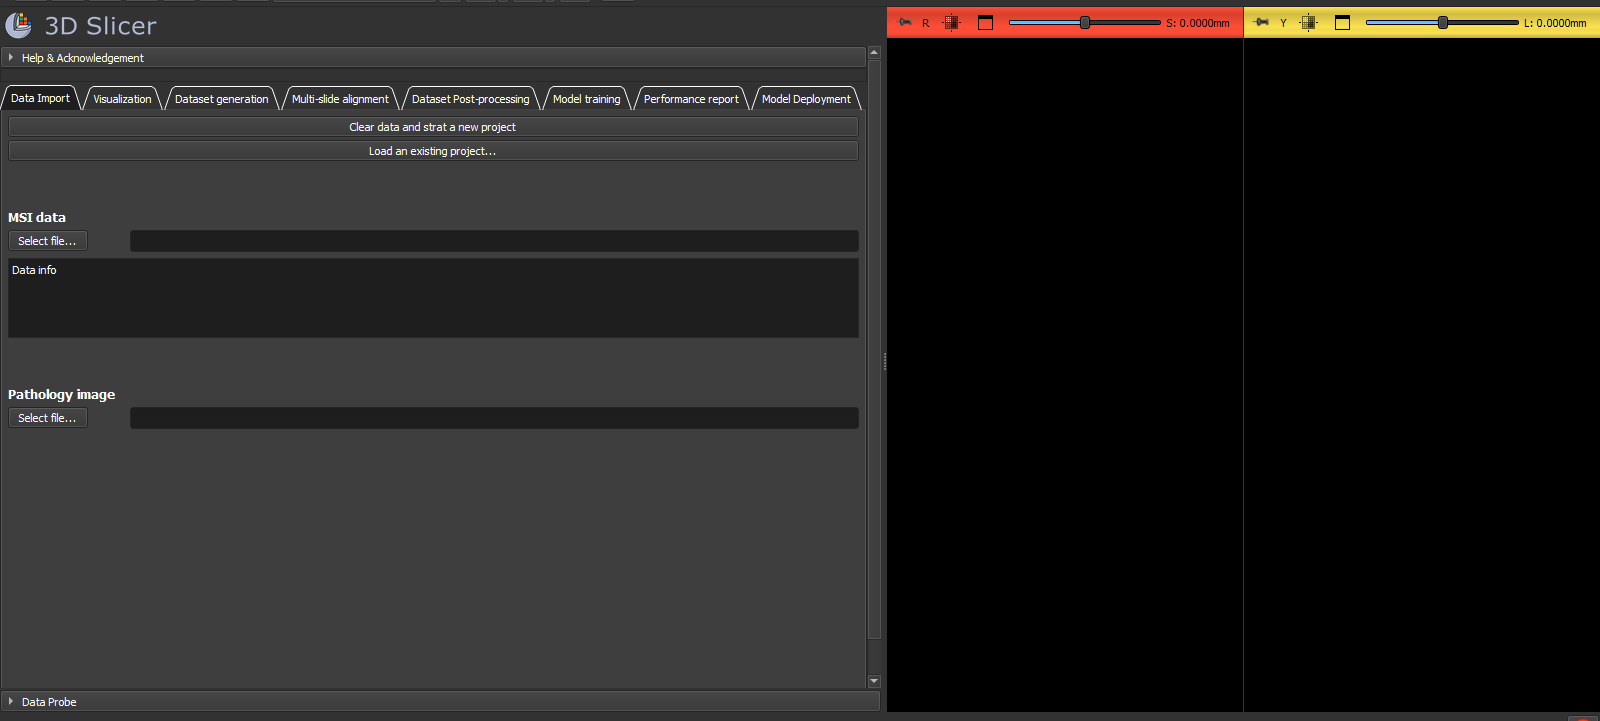
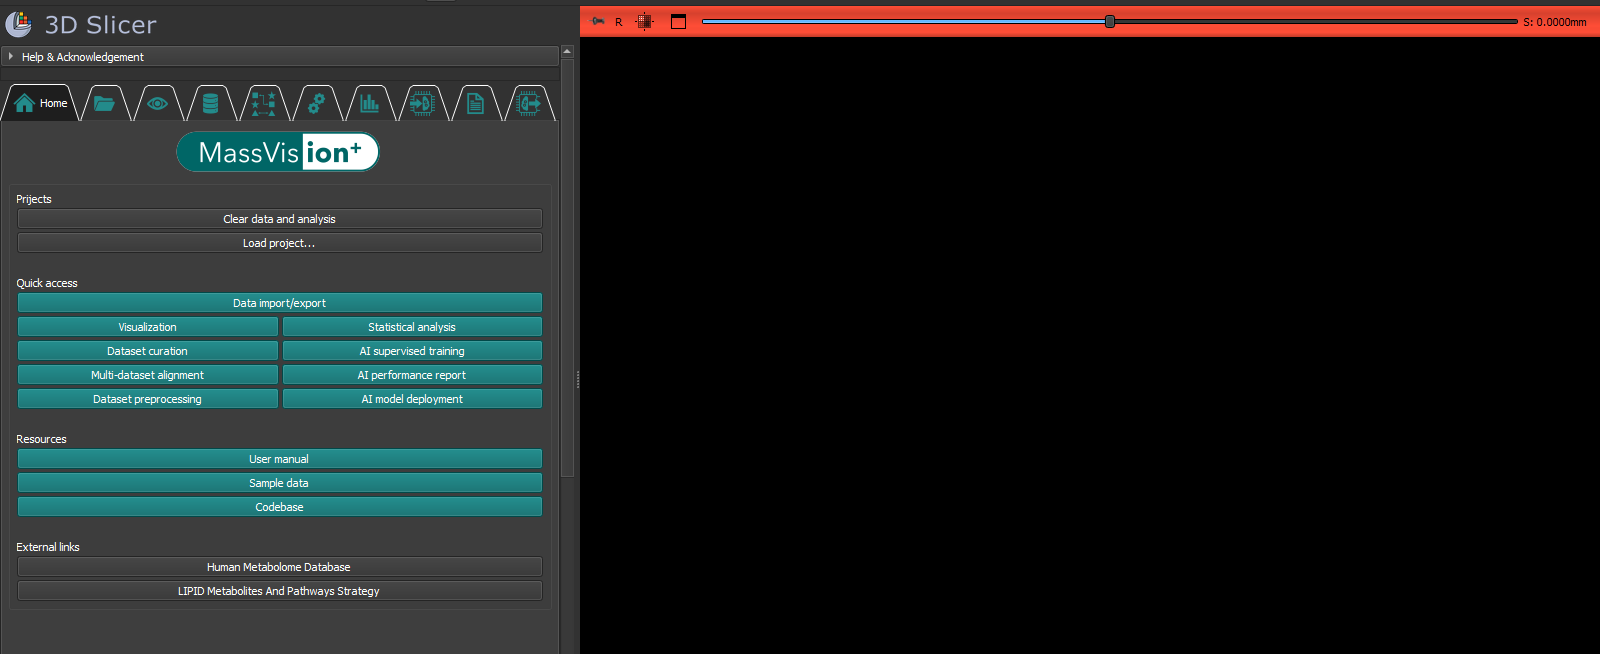
UPD manual

diff --git a/docs/source/Home Tab.rst b/docs/source/Home Tab.rst
@@ -1,0 +1,66 @@
+Home Tab
+========
+
+.. image:: https://raw.githubusercontent.com/jamzad/SlicerMassVision/main/HomeTab.png
+   :width: 400
+   :align: center
+
+Projects
+--------
+To clear any open data and analysis in MassVision, click on **Clear data and analysis** button in Project section. We recommend that users clear MassVision before uploading any new MSI data, or starting a new independent task. 
+
+If you have a saved MassVision project that you would like to resume working on, click **Load project** button.
+
+.. important::
+   After loading a saved MassVision project, you must reload the corresponding MSI data to resume editing from where you left off.
+
+MassVision projects contain all processed files, such as annotated scenes, labeled segments, and visualizations. However, the original MSI data used in the analysis is excluded to prevent project size inflation and avoid duplicating the original data.
+
+Quick Access
+------------
+MassVision is organized into multiple tabs, each containing specific functionalities to help you efficiently manage and navigate the system. The **Quick access** section provides convenient access to all tabs within MassVision. The available modules include:
+
+* Data Import/Export – Importing and exporting MSI and pathology data
+
+* Visualization – Interactive visualization tools for data exploration 
+
+* Dataset Curation – Co-localization, annotation, and labeled dataset generation 
+
+* Multi-Dataset Alignment – Ion alignment and peak matching between datasets 
+
+* Dataset Preprocessing – Normalization, filtering and aggregation
+
+* Statistical Analysis – Data distribution exploration, box plot, Volcano plot
+
+* AI Supervised Training – Feature ranking and selectin, model training and evaluation
+
+* AI Performance Report – Modules for evaluating and reporting model performance.
+
+* AI Model Deployment – Tools for deploying trained models into whole-slide MSI data.
+
+By selecting a button, you will be directed to the corresponding tab.
+
+
+Resources
+---------
+This section provides quick access to essential online support materials that assist users in working effectively with MassVision. This includes:
+
+* User Manual – A comprehensive online guide detailing the features, functionality, and usage of the system.
+
+* Sample Data – Online example datasets for testing, demonstration, or familiarization with key workflows.
+
+* Codebase – Access to the online code repository, enabling users to explore or contribute to the MassVision platform.
+
+By selecting any of these options, users will be directed to the corresponding online resource.
+
+
+External Links
+--------------
+
+The **External Links** section provides direct access to reputable online resources that support and complement the use of MassVision in metabolomics and lipidomics research. These include:
+
+* Human Metabolome Database (HMDB) – A comprehensive online resource for information on human metabolites, including detailed chemical, clinical, and biochemical data.
+
+* LIPID Metabolites and Pathways Strategy (LIPID MAPS) – A curated platform offering data and tools related to lipid metabolism, structures, pathways, and classification.
+
+Clicking on any of these links will open the respective external website in your default web browser.

diff --git a/docs/source/Getting Started.rst b/docs/source/Getting Started.rst
@@ -1,15 +1,17 @@
 Getting Started
-=====
+===============
 
-MassVision is hosted in 3D Slicer image computation platform. To learn more about the platform and its applications, please refer to the official `3D Slicer Documentation <https://slicer.readthedocs.io/en/latest/>`_.
-Please ensure that you installed the latest stable version of 3D Slicer on your system. The detailed instruction for installation and system requirements can be found on the official `3D Slicer Installation Guide <https://slicer.readthedocs.io/en/latest/user_guide/getting_started.html#installing-3d-slicer>`_.
+Installing 3D Slicer
+--------------------
+MassVision is hosted in 3D Slicer image computation platform. Please ensure that you installed the latest stable version of 3D Slicer on your system. The detailed instruction for installation and system requirements can be found on the official `3D Slicer Installation Guide <https://slicer.readthedocs.io/en/latest/user_guide/getting_started.html#installing-3d-slicer>`_.To learn more about the platform and its applications, please refer to the official `3D Slicer Documentation <https://slicer.readthedocs.io/en/latest/>`_.
+
 
 .. image:: https://raw.githubusercontent.com/jamzad/SlicerMassVision/main/docs/source/Images/SlicerLogo.png
       :width: 150
       :align: center
 
 Installing MassVision
--------
+---------------------
 #. Open 3D Slicer. 
 #. Select "Extensions Manager" from the "View" menu at the top of the screen.
 
@@ -25,7 +27,7 @@ Installing MassVision
 #. The 3D Slicer should be restarted to complete the installation.
 
 Opening MassVision
--------
+------------------
 #. Open 3D Slicer
 #. Go to the 'Modules' section of the toolbar (top left) and click on the magnifying glass |ModulesIcon|.
 #. Search for "MassVision" and switch to the module.  
@@ -41,13 +43,14 @@ Opening MassVision
 #. Once the module is open, you have access to all tabs for performing your analysis: 
 
     .. image:: https://raw.githubusercontent.com/jamzad/SlicerMassVision/main/docs/source/Images/MassVisionHome.png
-        :width: 600
+        :width: 400
+        :align: center
 
 Test Data
--------
+---------
  
 MassVision provides users with test data for exploring and evaluating its functionalities. The data can be downloaded from `here <https://github.com/jamzad/SlicerMassVision/releases/tag/test-data>`_
 
-The test data includes a sample **MSI data** in a structured CSV format, along with the corresponding **histopathology image** in TIFF format. The data is collected using DESI modality from a colorectal tissue slide as part of the following study:
+The test data includes a sample **MSI data** in both structured CSV and hierarchical HDF5 format, along with the corresponding **histopathology image** in TIFF format. The data is collected using DESI modality from a colorectal tissue slide as part of the following study:
 
 Kaufmann M, Iaboni N, Jamzad A, Hurlbut D, Ren KYM, Rudan JF, Mousavi P, Fichtinger G, Varma S, Caycedo-Marulanda A, et al. Metabolically Active Zones Involving Fatty Acid Elongation Delineated by DESI-MSI Correlate with Pathological and Prognostic Features of Colorectal Cancer. Metabolites. 2023; 13(4):508. https://doi.org/10.3390/metabo13040508

diff --git a/docs/source/About MassVision.rst b/docs/source/About MassVision.rst
@@ -1,10 +1,16 @@
 About MassVision
-=====
+================
 
-**MassVision** is a module developed in `3D Slicer <https://www.slicer.org>`_ platform for end-to-end AI-driven analysis of Mass Spectrometry Imaging (MSI) data. The functionalities include data exploration via various targeted, untargeted, and local-contrast visualization, co-localization with reference modality  like histopathology annotations, dataset curation with spatial- and spectral-guidance, multi-slide dataset merge via feature alignment, spatial and spectral filtering, AI model training and validation, and whole-slide AI model deployment.
+.. image:: https://raw.githubusercontent.com/jamzad/SlicerMassVision/main/UI_nameM.png
+   :width: 400
+   :align: center
+
+**MassVision** is a module developed in `3D Slicer <https://www.slicer.org>`_ platform for end-to-end AI-driven analysis of Mass Spectrometry Imaging (MSI) data. 
+
+The functionalities include data exploration via various targeted, untargeted, and local-contrast visualization, co-localization with reference modality like histopathology annotations, dataset curation with spatial- and spectral-guidance, multi-slide dataset merge via feature alignment, spatial and spectral filtering, statistical analysis, AI model training and validation, and whole-slide MSI model deployment.
 
 How to Cite
--------
+-----------
 Thank you for choosing MassVision for your study! Please cite the following MassVision paper in your publications:
 
 Jamzad, A.; Warren, J.; Syeda, A.; Kaufmann, M.; Iaboni, N.; Nicol, C.; Rudan, J.; Ren, K.; Hurlbut, D.; Varma, S.; Fichtinger, G.; Mousavi, P. MassVision: An Open-Source End-to-End Platform for AI-Driven Mass Spectrometry Image Analysis. bioRxiv 2025. `https://doi.org/10.1101/2025.01.29.635489 <https://doi.org/10.1101/2025.01.29.635489>`_.

diff --git a/docs/source/index.rst b/docs/source/index.rst
@@ -25,11 +25,16 @@ Contents
    
    About MassVision
    Getting Started
+   Home Tab
    Data Import
    Visualization
    Dataset Curation
    Multi-slide Alignment
    Dataset Preprocessing
+   Statistical Analysis
    AI Model Training
    AI Model Deployment
+   News and Updates
    Data Structure
+   Formulation
+
